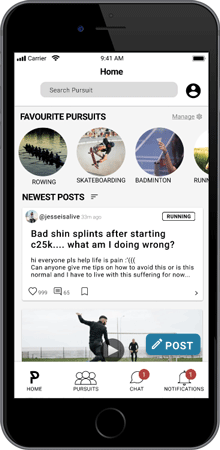
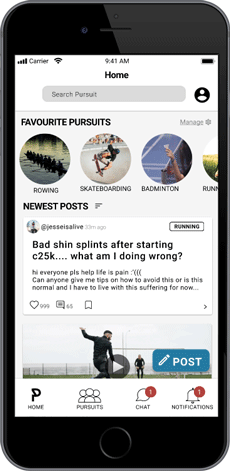
Fix images for responsive design and added content under Skills section

diff --git a/index.html b/index.html
@@ -30,13 +30,17 @@
             <h2>Projects</h2>
             <!-- Project 1: Pursuit -->
             <section class="project">
-                <!-- <div> -->
                 <img src="images/pursuit-02.png" class="project-logo">
-                <img 
-                src="images/Pursuit-black-phone.png"
-                alt="Homescreen of Pursuit app prototype"
-                class="project-img">
-                <br>
+                <picture class="project-img"> 
+                    <source srcset="images/Pursuit-black-phone-140px.png" media="(max-width: 320px)">
+                    <source srcset="images/Pursuit-black-phone.png" media="(max-width: 750px)">
+                    <source srcset="images/Pursuit-black-phone-150px.png" media="(max-width: 900px)">
+                    <source srcset="images/Pursuit-black-phone.png">                
+                    <img 
+                    src="images/Pursuit-black-phone.png"
+                    alt="Homescreen of Pursuit app prototype">
+                </picture>
+                <!-- <br> -->
                 <div class="project-info">
                     <p class="project-text">
                         Pursuit is a health and wellness social media app that aims 
@@ -57,7 +61,6 @@
                         <button>View Project</button>
                     </a>
                 </div>
-                <!-- </div> -->
             </section>
         </section>
         
@@ -82,7 +85,7 @@
             <div id="about-info">
                 <h3>Web development to me is...</h3>
                 <img 
-                    src="images/word-cloud.svg"
+                    src="images/word-cloud.png"
                     alt="interactive, engaging, rewarding, exciting, problem solving, 
                     innovative, communicative, imaginative, connective"
                     id="word-cloud"
@@ -96,6 +99,7 @@
                             <li>HTML5</li>
                             <li>CSS3</li>
                             <li>JavaScript</li>
+                            <li>React</li>
                         </ul>
                     </div>
                     
@@ -115,6 +119,8 @@
                             <li>Java</li>
                             <li>Python</li>
                             <li>C</li>
+                            <li>SQL</li>
+                            <li>Unix</li>
                         </ul>
                     </div>
                 </div>
@@ -134,13 +140,13 @@
             <h2>Contact Me!</h2>
             <ul>
                 <li><a href="mailto:zhouying@live.ca">zhouying@live.ca</a></li>
-                <li><a href="https://github.com/yingying10969">Github</a></li>
+                <li><a href="https://github.com/yingying10969" target="_blank">Github</a></li>
                 <li>
-                    <a href="https://www.linkedin.com/in/ying-zhou-a979791a9/">
+                    <a href="https://www.linkedin.com/in/ying-zhou-a979791a9/" target="_blank">
                         LinkedIn
                     </a>
                 </li>
-                <li><a href="https://www.instagram.com/create.ying/?hl=en">Instagram</a></li>
+                <li><a href="https://www.instagram.com/create.ying/?hl=en" target="_blank">Instagram</a></li>
             </ul>
         </footer>
     </body>

diff --git a/css/style.css b/css/style.css
@@ -145,7 +145,6 @@ nav li a:focus {
   grid-column: 1/2;
   margin: 0 auto;
   vertical-align: top;
-  width: 55%;
 }
 
 .project-logo {
@@ -247,12 +246,6 @@ h4 {
   margin: 5px 0;
 }
 
-#word-cloud {
-  width: 70%;
-  display: block;
-  margin: 60px 0;
-}
-
 .skills {
   display: inline-flex;
 }
@@ -273,6 +266,12 @@ h4 {
   margin-right: 7px;
   border-radius: 5px;
   font-weight: 500;
+}
+
+#word-cloud {
+  width: 75%;
+  display: block;
+  margin: 60px 0;
 }
 
 #hobbies {
@@ -377,10 +376,9 @@ footer ul li a:hover {
     margin: 20px auto;
   }
 
-  .project-img {
+  .project-img img {
     display: block;
     margin: 20px auto;
-    max-width: 220px;
     height: auto;
   }
 
